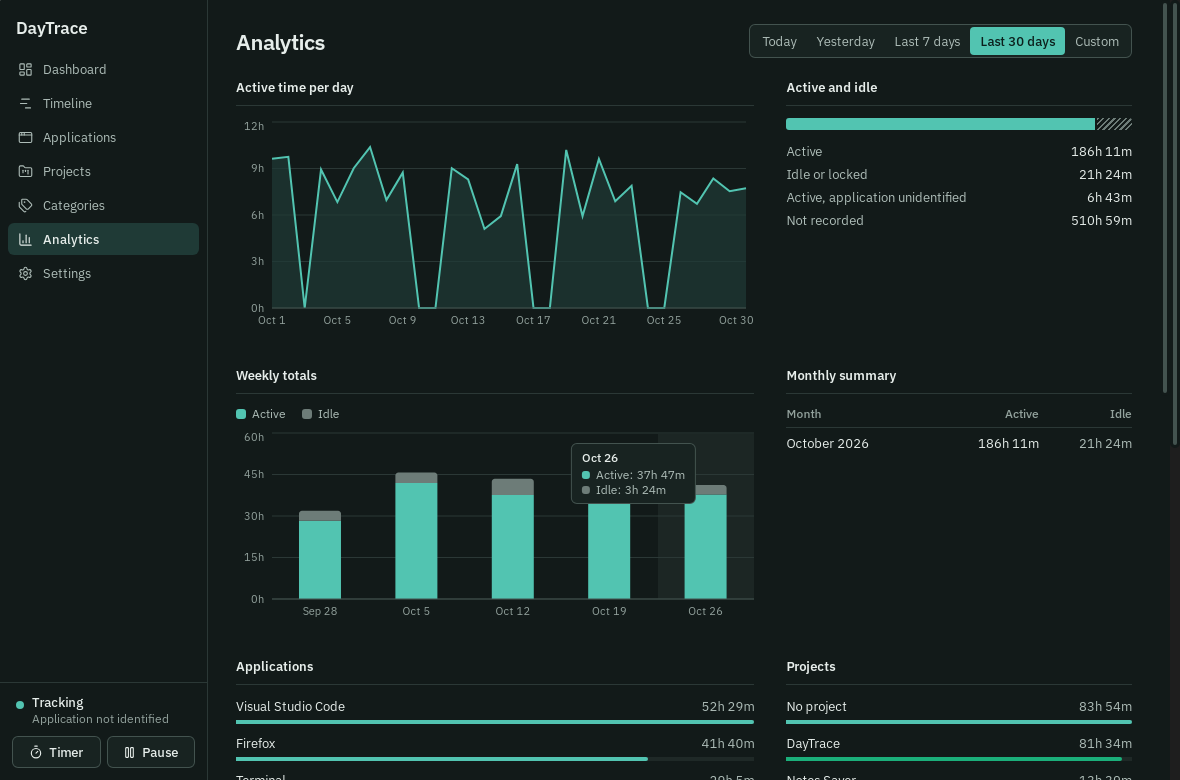
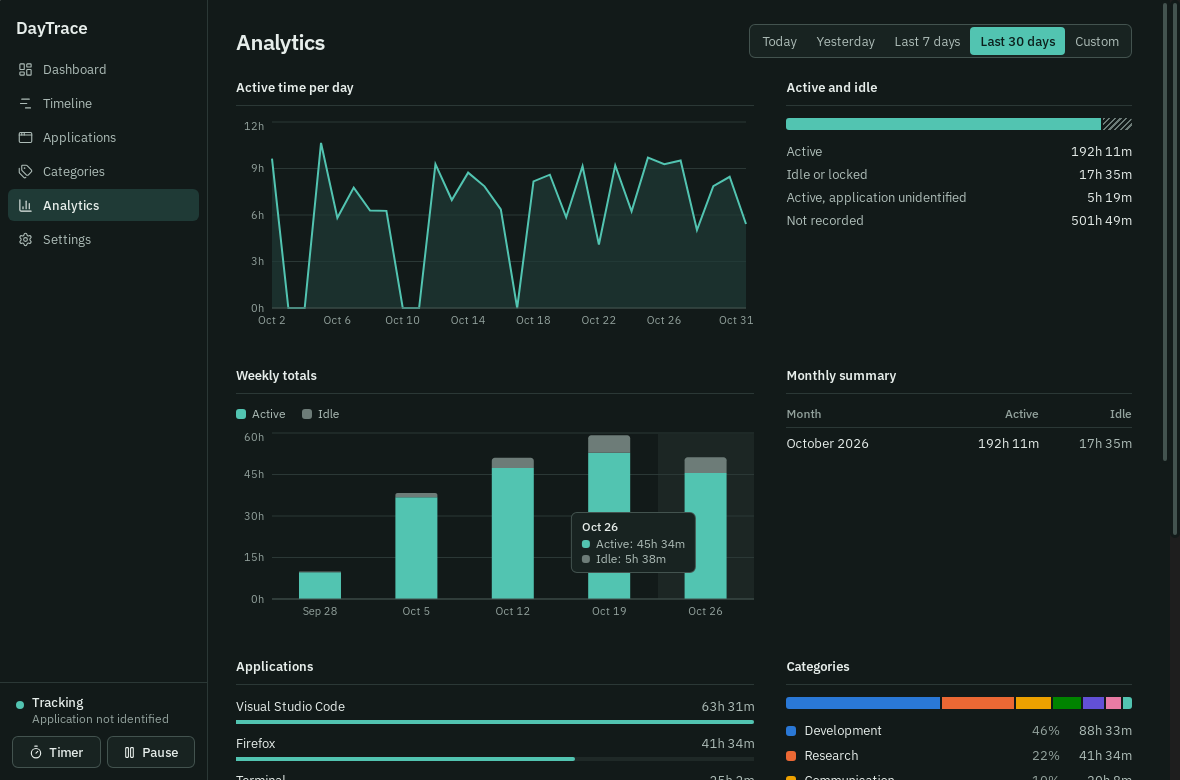
docs: remove projects from the guides and refresh screenshots

diff --git a/docs/VERIFICATION.md b/docs/VERIFICATION.md
@@ -7,11 +7,11 @@ compiles. Last updated 2026-10-31.
 
 | Area | How |
 | --- | --- |
-| Session engine | 113 unit tests, plus 40 randomized simulations of up to 200,000 steps |
+| Session engine | 115 unit tests, plus 40 randomized simulations of up to 200,000 steps |
 | Timezones, daylight saving, midnight | Unit tests across New York, Havana and Kolkata |
-| Database, migrations, backup, restore | Unit tests |
+| Database, migrations, backup, restore | Unit tests, including upgrading and restoring a real version 1 database |
 | Classification, rule precedence, preview | Unit tests |
-| Application UI | 23 end-to-end checks on the real binary through WebDriver |
+| Application UI | 24 end-to-end checks on the real binary through WebDriver |
 | Autostart entry on Linux | Written and removed, checked on disk by the end-to-end suite |
 | GNOME 50.1 on Wayland | Real headless GNOME Shell: extension, focus, idle, ordering, titles opt-in, crash recovery |
 | Background tracking | Survives closing the window, and quits on close when that setting is off |
@@ -22,7 +22,7 @@ compiles. Last updated 2026-10-31.
 | AppImage | Launched in real GNOME, window opened, database created |
 | `.deb`, `.rpm` | Built and signed. `.deb` contents inspected. Neither has been installed |
 | Windows core logic | 110 tests pass on `windows-latest` in CI, including live Win32 calls for process inspection and idle time |
-| CI on Ubuntu 24.04 | Clippy, the X11 test and all 23 end-to-end checks pass on GitHub Actions |
+| CI on Ubuntu 24.04 | Clippy, the X11 test and all 24 end-to-end checks pass on GitHub Actions |
 | Release workflow | v0.1.0 built and published every package. Both update manifests are served with all six platform entries, and the published `.deb` and Windows installer verify against the shipped key |
 | Snap from the Store | Revision 1 installed from the edge channel on Ubuntu 26.04 with GNOME 50. It launched, and recorded active time as unidentified, as designed under strict confinement |
 

diff --git a/ARCHITECTURE.md b/ARCHITECTURE.md
@@ -5,7 +5,7 @@ DayTrace is a Tauri 2 application with a Rust backend and a React frontend. All 
 ```text
 React UI ── typed invoke() ──> Tauri commands ──> daytrace-core
                                                     ├─ database    migrations and repositories
-                                                    ├─ projects    rules and exclusions
+                                                    ├─ classification   rules and exclusions
                                                     ├─ analytics   timezone-aware reports
                                                     ├─ updates     channels and install methods
                                                     └─ tracker
@@ -83,11 +83,9 @@ to the requested range and split at local day and hour boundaries, so midnight-c
 
 ## Classification
 
-1. A project or category the user set on a session is never overwritten.
-2. Enabled rules run by ascending priority, then by id. The first match decides, separately for
-   project and category.
-3. The application's defaults.
-4. The category's default project.
+1. A category the user set on a session is never overwritten.
+2. Enabled rules run by ascending priority, then by id. The first match decides.
+3. The application's default category.
 
 Applying rules to history only adds or changes assignments. A session no rule matches keeps what it has.
 

diff --git a/PRIVACY.md b/PRIVACY.md
@@ -14,7 +14,7 @@ Automatic tracking stays off until you turn it on.
 | Application icon location | While tracking is on |
 | Session start and end times | While tracking is on |
 | Idle and locked periods | While tracking is on |
-| Projects, categories, labels and rules you create | When you create them |
+| Categories, labels and rules you create | When you create them |
 | Window titles | Only if you turn on "Collect window titles" |
 
 If the application cannot be identified, DayTrace records only that you were active. It does not
@@ -55,7 +55,7 @@ GNOME's isolation between applications. Remove it from Settings at any time.
 
 ## Your controls
 
-In Settings you can turn tracking off, pause it, exclude applications, program paths and projects,
+In Settings you can turn tracking off, pause it, exclude applications and program paths,
 limit how long history is kept, export your data as JSON or CSV, back it up, and delete all of it.
 
 Exclusions take effect before anything is stored: an excluded application is never written to the

diff --git a/CHANGELOG.md b/CHANGELOG.md
@@ -6,6 +6,17 @@ All notable changes are recorded here. The format follows
 
 ## [Unreleased]
 
+### Removed
+
+- Projects, including project assignments, project analytics and project exclusions. Sessions,
+  applications, categories and their links are kept when upgrading. Rules that only assigned a
+  project are deleted, and rules that also assigned a category keep working.
+
+### Changed
+
+- Classification rules moved to the Categories page and now always assign a category
+- Preview last 30 days also works with no rules, so application defaults can be applied to history
+
 ## [0.1.0] - 2026-10-31
 
 First public test release. See docs/VERIFICATION.md for what has and has not been tested.

diff --git a/README.md b/README.md
@@ -23,7 +23,7 @@ Screenshots show generated sample data.
 - Automatic tracking of the focused application, with idle time kept separate from use
 - A day ribbon that shows each day on a 24-hour scale, stacked to show a week or month
 - A timeline where you can correct, relabel, add and delete sessions
-- Projects with sub-projects, custom categories and colors
+- Custom categories and colors
 - Classification rules with predictable precedence, and a preview before they change history
 - Analytics for daily, weekly and monthly trends, plus rankings and an hour-by-weekday view
 - Manual timers, which work even where automatic tracking cannot

diff --git a/docs/IMPLEMENTATION_PLAN.md b/docs/IMPLEMENTATION_PLAN.md
@@ -1,5 +1,8 @@
 # DayTrace Technical Implementation Plan
 
+This is the original plan. Projects were later removed from the product, and references to them
+below are historical. ARCHITECTURE.md describes the current design.
+
 This plan was written after inspecting the repository (empty, no commits) and probing a real
 GNOME 50 Wayland session on Ubuntu 26.04. Statements about platform behaviour are marked
 **verified** when they were observed directly, and **documented** when they rest on upstream
